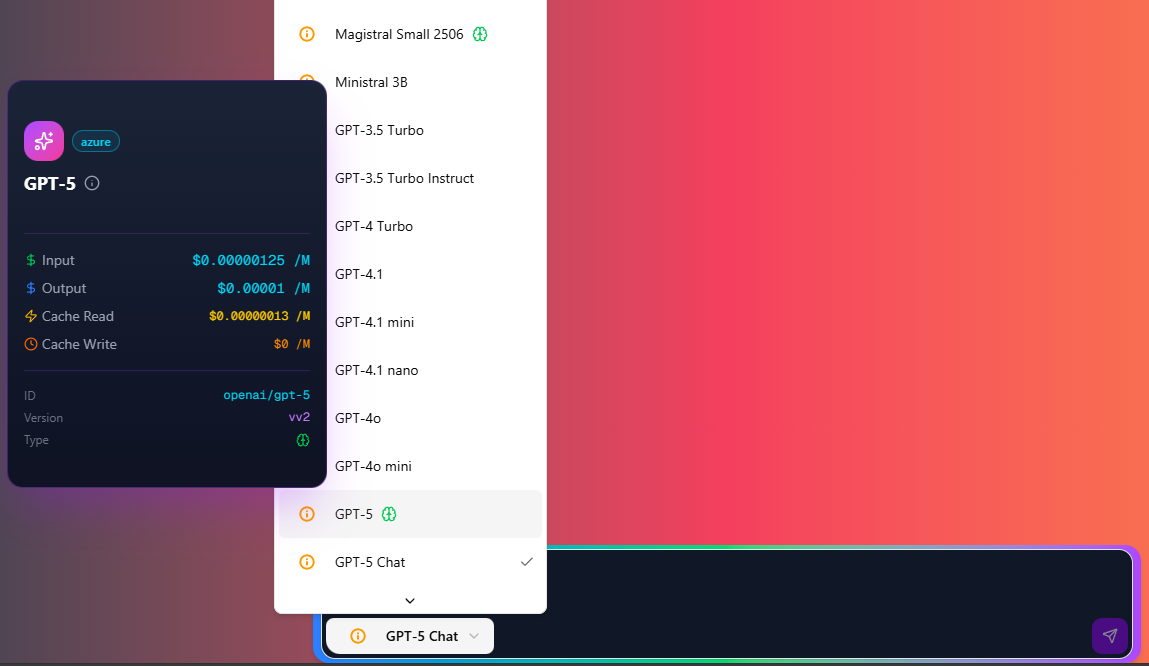
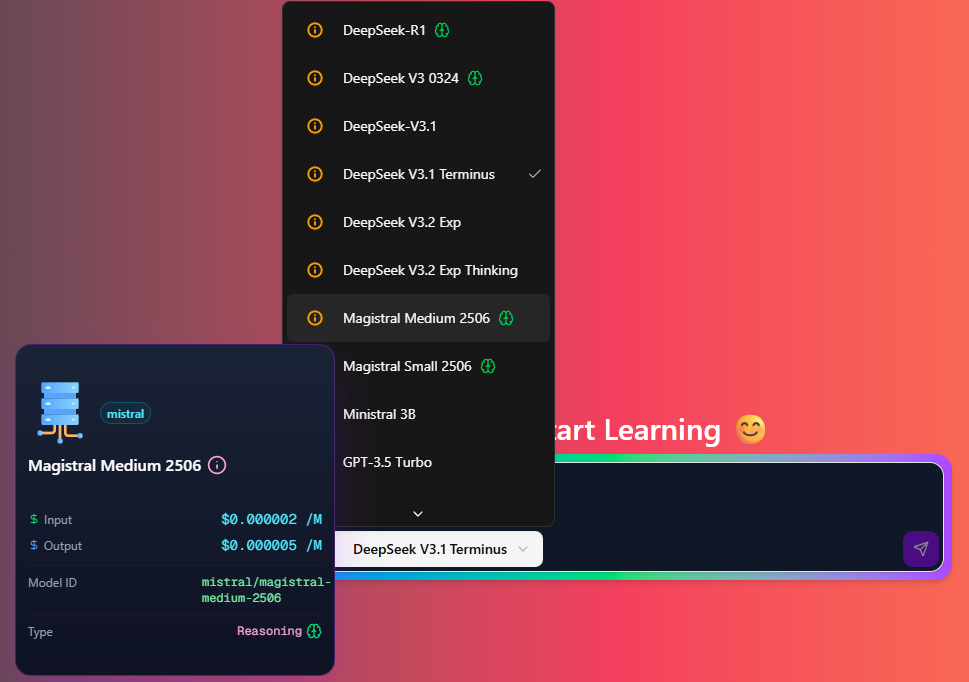
....

diff --git a/src/components/my/HoverModelInfoCard.tsx b/src/components/my/HoverModelInfoCard.tsx
@@ -46,7 +46,7 @@ export function HoverModelInfoCard({ model }: { model: any }) {
             <div className="flex items-center justify-between">
               <div className="flex items-center gap-2">
                 <Image
-                  src="/assets/ai_provider2.svg"
+                  src="/assets/ai_provider3.svg"
                   alt=""
                   width={16}
                   height={16}
@@ -64,7 +64,7 @@ export function HoverModelInfoCard({ model }: { model: any }) {
               {model.name}
               <HoverCard openDelay={50} closeDelay={50}>
                 <HoverCardTrigger asChild>
-                  <InfoIcon className="w-3.5 h-3.5 inline-block text-gray-400 hover:text-gray-300" />
+                  <InfoIcon className="w-5 h-5 inline-block text-pink-300 hover:text-gray-300" />
                 </HoverCardTrigger>
                 <HoverCardContent className="bg-gray-800 text-white p-2 rounded-md text-xs">
                   {model.description}
@@ -124,25 +124,22 @@ export function HoverModelInfoCard({ model }: { model: any }) {
             {/* Model Info Section */}
             <div className="text-xs space-y-1 text-gray-400">
               <div className="flex justify-between">
-                <span>ID</span>
-                <span className="font-mono text-cyan-300 max-w-[120px] ">
+                <span>Model ID</span>
+                <span className="font-mono text-green-300 max-w-[120px] ">
                   {/* truncate */}
                   {model.specification.modelId}
                 </span>
               </div>
-              <div className="flex justify-between">
-                <span>Version</span>
-                <span className="font-mono text-purple-300">
-                  v{model.specification.specificationVersion}
-                </span>
-              </div>
-              <div className="flex justify-between">
+
+              <Separator className="bg-purple-500/10 my-2" />
+
+              <div className="flex justify-between mt-2">
                 <span>Type</span>
                 <span className="font-mono text-pink-300 capitalize flex items-center gap-1">
                   {isModelReasoningCapable ? (
                     <>
                       Reasoning
-                      <BrainIcon className="w-3 h-3 text-green-400" />
+                      <BrainIcon className="w-4 h-4 text-green-400" />
                     </>
                   ) : (
                     "Non-Reasoning"

diff --git a/src/components/my/Toolbar/ToolbarOnTextSelection.tsx b/src/components/my/Toolbar/ToolbarOnTextSelection.tsx
@@ -290,7 +290,9 @@ export function ToolbarOnTextSelection({
                         <img src="/ai-models/mistral.svg" alt="" sizes="18" />
                       )}
                       {model[0].id.includes("openai") && (
-                        <img src="/ai-models/openai.svg" alt="" sizes="18" />
+                        <div className="bg-white rounded-full">
+                          <img src="/ai-models/openai.svg" alt="" sizes="18" />
+                        </div>
                       )}
                     </span>
 

diff --git a/src/components/my/PromptInputField.tsx b/src/components/my/PromptInputField.tsx
@@ -89,7 +89,7 @@ export const PromptInputField = memo(function PromptInputField({
               <PromptInputModelSelectValue />
             </PromptInputModelSelectTrigger>
 
-            <PromptInputModelSelectContent>
+            <PromptInputModelSelectContent className="dark">
               {availableModels.map((model: any) => {
                 return (
                   <div key={model[0].id}>

diff --git a/src/app/(home)/page.tsx b/src/app/(home)/page.tsx
@@ -119,6 +119,7 @@ export default function Home() {
           <div
             className={`flex flex-col gap-8 sm:gap-12 md:gap-16 lg:gap-20 items-center`}
           >
+            {/* Multiple LLM Support */}
             <div className="text-white justify-center items-center p-4 sm:p-6 md:p-8 mb-8 sm:mb-12 md:mb-16 bg-linear-to-r bg-green-600 via-purple-900 from-purple-700 rounded-2xl sm:rounded-3xl shadow-2xl w-full">
               <h3
                 className={`text-sm text-center sm:text-2xl md:text-3xl text-white  mb-3 sm:mb-4 leading-relaxed ${font_GMonoTrustDisplay.className}`}